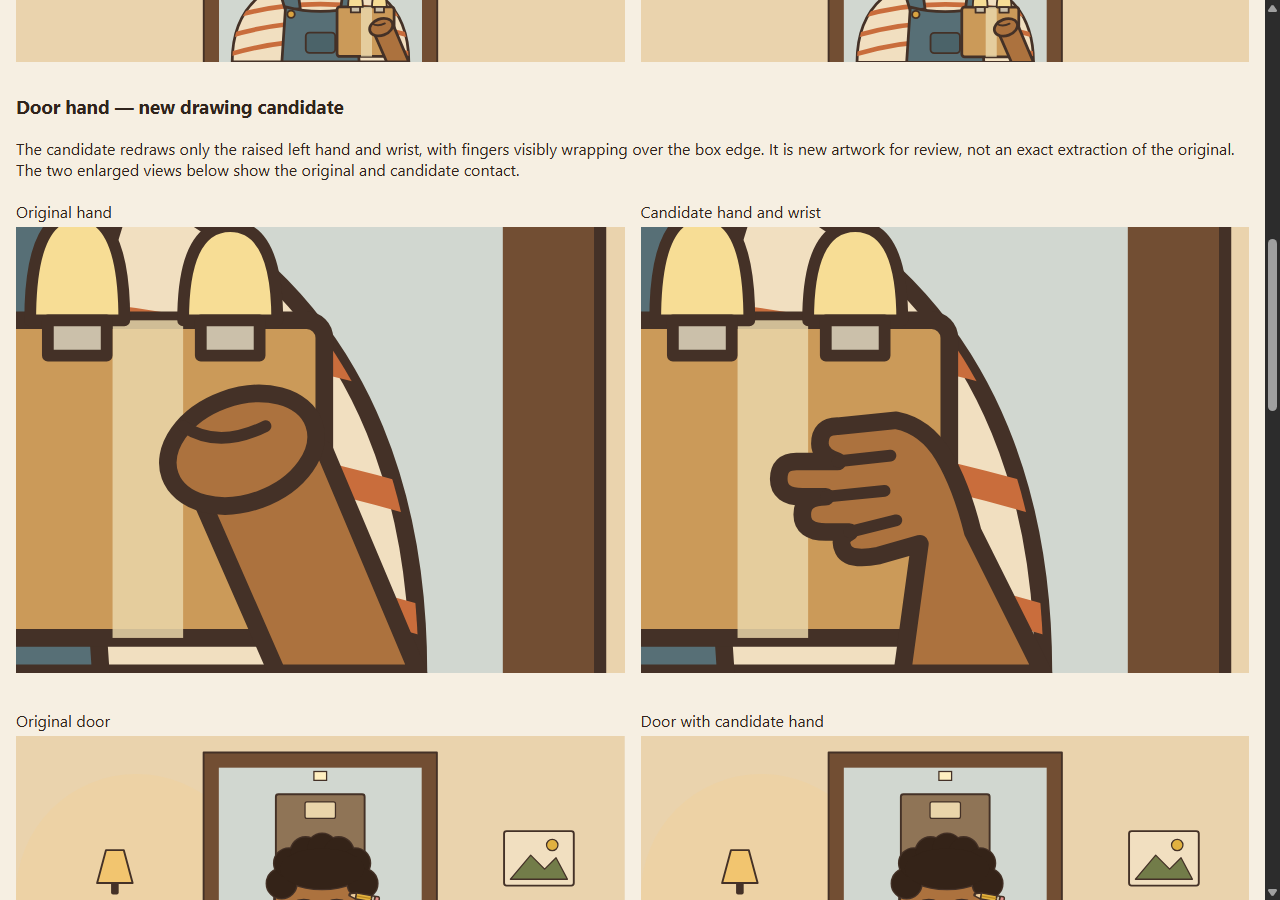
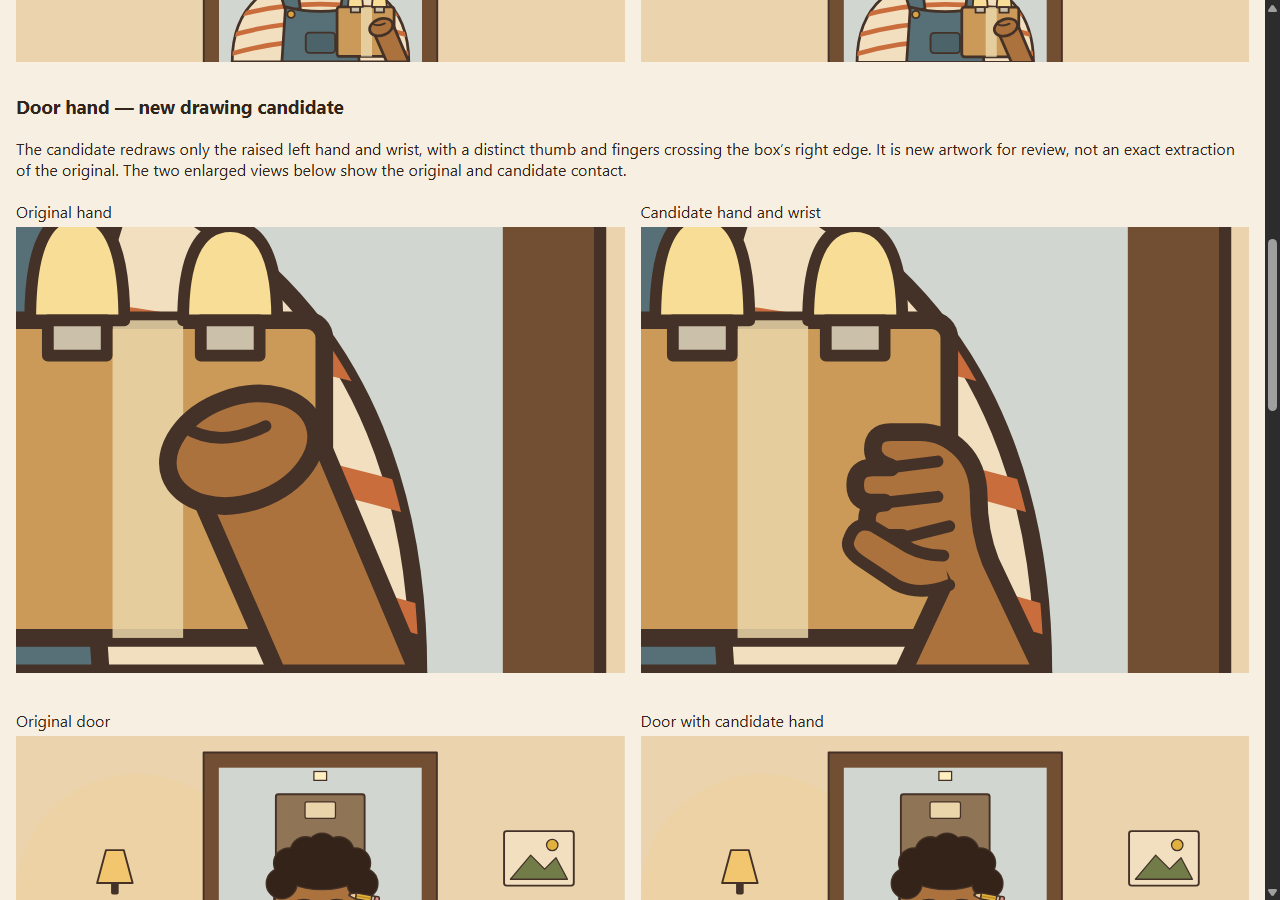
Refine Ren hand grip around box edge

Changed region(s): [[0.5938, 0.4356, 0.7812, 0.7467], [0.0, 0.1556, 0.9688, 0.2178]]

diff --git a/reports/development/plan-45-ren-svg-component-extraction/gallery.html b/reports/development/plan-45-ren-svg-component-extraction/gallery.html
@@ -6,7 +6,7 @@ body{font:16px system-ui;margin:1rem;color:#30241d;background:#f6efe2}main{max-w
 </style></head><body><main><h1>Plan 45: pinned originals and extracted Ren</h1><p class="note">Review artifact only. Floor image and derived crop are unreviewed candidates; no owner art acceptance or game mounting is implied. The original floor comparison is wide.</p>
 <h2>Six expressions</h2><div class="pair"><figure><figcaption>Original round 4 page: six faces and original avatar sizes</figcaption><iframe title="Original six expressions" src="../plan-41-ren-friend-character-and-social-life-study/concepts/round-04-faces-and-door.html"></iframe></figure><figure><figcaption>Extracted: 64 px avatars followed by busts</figcaption><div class="avatars" id="avatars"></div><div class="avatars" id="busts"></div></figure></div>
 <h2>Door</h2><div class="pair"><figure><figcaption>Original door v2</figcaption><img src="../plan-41-ren-friend-character-and-social-life-study/concepts/door-scene-v2.svg" alt="Original door"></figure><figure><figcaption>Extracted door</figcaption><div class="output" id="door"></div></figure></div>
-<h3>Door hand — new drawing candidate</h3><p>The candidate redraws only the raised left hand and wrist, with fingers visibly wrapping over the box edge. It is new artwork for review, not an exact extraction of the original. The two enlarged views below show the original and candidate contact.</p><div class="pair"><figure><figcaption>Original hand</figcaption><div class="output" id="hand-original"></div></figure><figure><figcaption>Candidate hand and wrist</figcaption><div class="output" id="hand-candidate"></div></figure></div><div class="pair"><figure><figcaption>Original door</figcaption><div class="output" id="door-before"></div></figure><figure><figcaption>Door with candidate hand</figcaption><div class="output" id="door-candidate"></div></figure></div>
+<h3>Door hand — new drawing candidate</h3><p>The candidate redraws only the raised left hand and wrist, with a distinct thumb and fingers crossing the box’s right edge. It is new artwork for review, not an exact extraction of the original. The two enlarged views below show the original and candidate contact.</p><div class="pair"><figure><figcaption>Original hand</figcaption><div class="output" id="hand-original"></div></figure><figure><figcaption>Candidate hand and wrist</figcaption><div class="output" id="hand-candidate"></div></figure></div><div class="pair"><figure><figcaption>Original door</figcaption><div class="output" id="door-before"></div></figure><figure><figcaption>Door with candidate hand</figcaption><div class="output" id="door-candidate"></div></figure></div>
 <h2>Close couch</h2><div class="pair"><figure><figcaption>Original; inspect sofa foreground and figure edge</figcaption><img src="../plan-41-ren-friend-character-and-social-life-study/concepts/apartment-scenes/scenes/ren-couch-medium.svg" alt="Original couch"></figure><figure><figcaption>Extracted close couch</figcaption><div class="output" id="couch"></div></figure></div>
 <h3>Raised framing — revision candidate</h3><p>This comparison raises Ren within the existing scene and moves the frame up, so the bottom of the figure meets the visible edge and the seat cushions are outside the view. It repositions existing art; the owner has not yet accepted this candidate.</p><div class="pair"><figure><figcaption>Previous close couch</figcaption><div class="output" id="couch-before"></div></figure><figure><figcaption>Proposed raised framing</figcaption><div class="output" id="couch-raised"></div></figure></div>
 <h2>Floor game night: owner said looks good</h2><div class="pair"><figure><figcaption>Original wide scene</figcaption><img src="../plan-41-ren-friend-character-and-social-life-study/concepts/apartment-scenes/scenes/ren-floor-game-night.svg" alt="Original floor scene"></figure><figure><figcaption>Extracted wide scene</figcaption><div class="output" id="floor"></div></figure></div>
